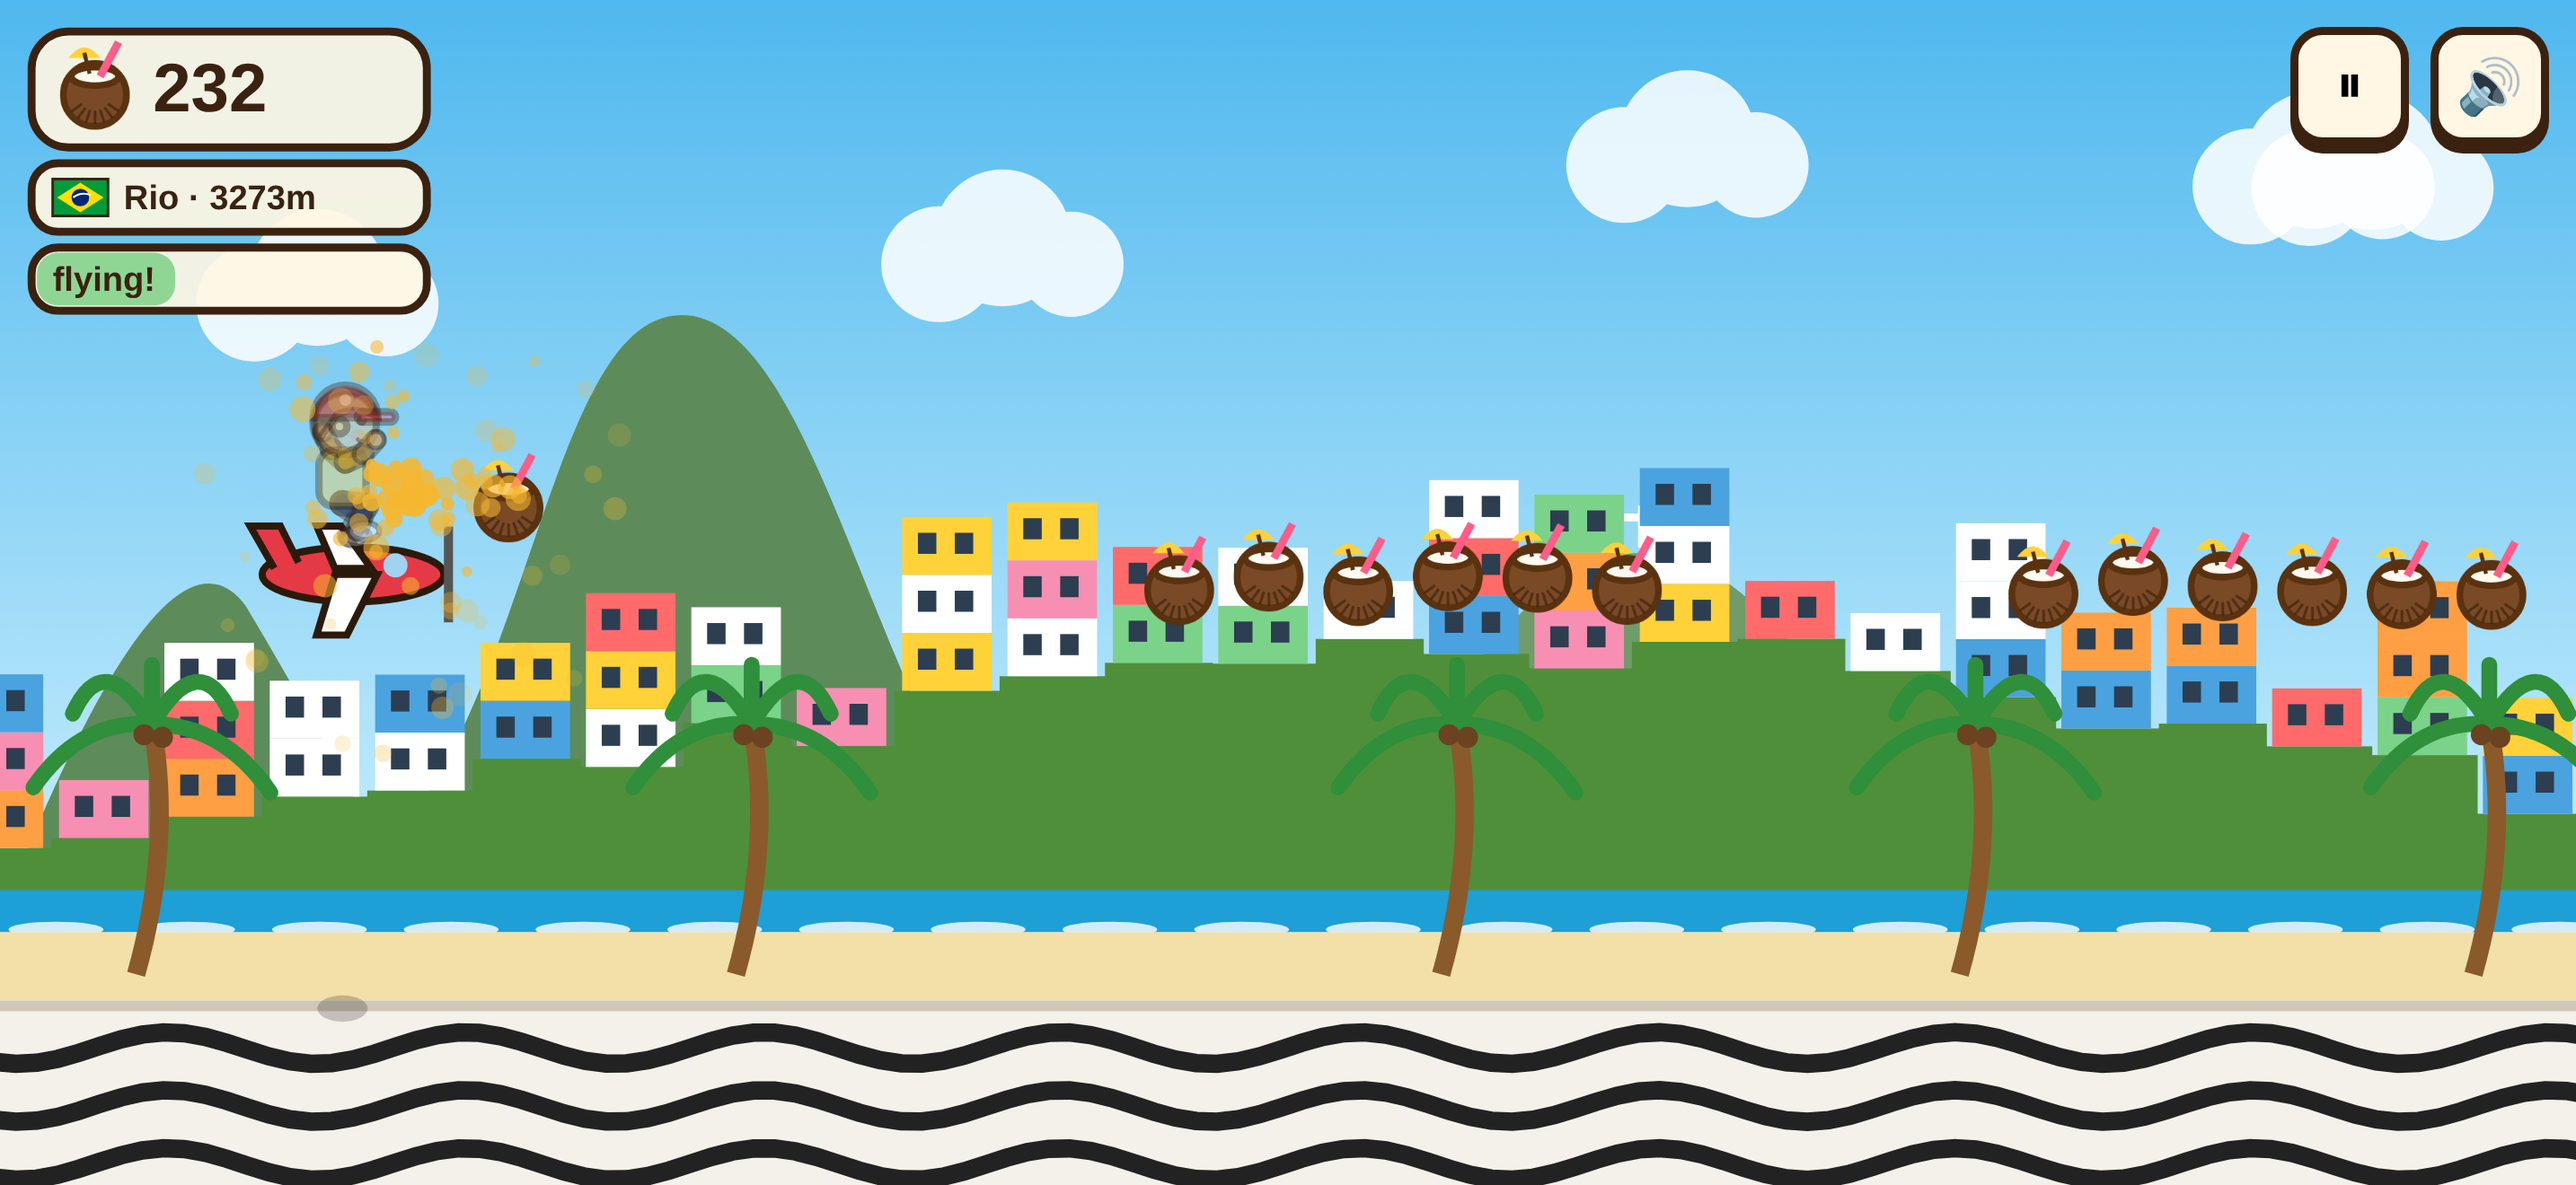
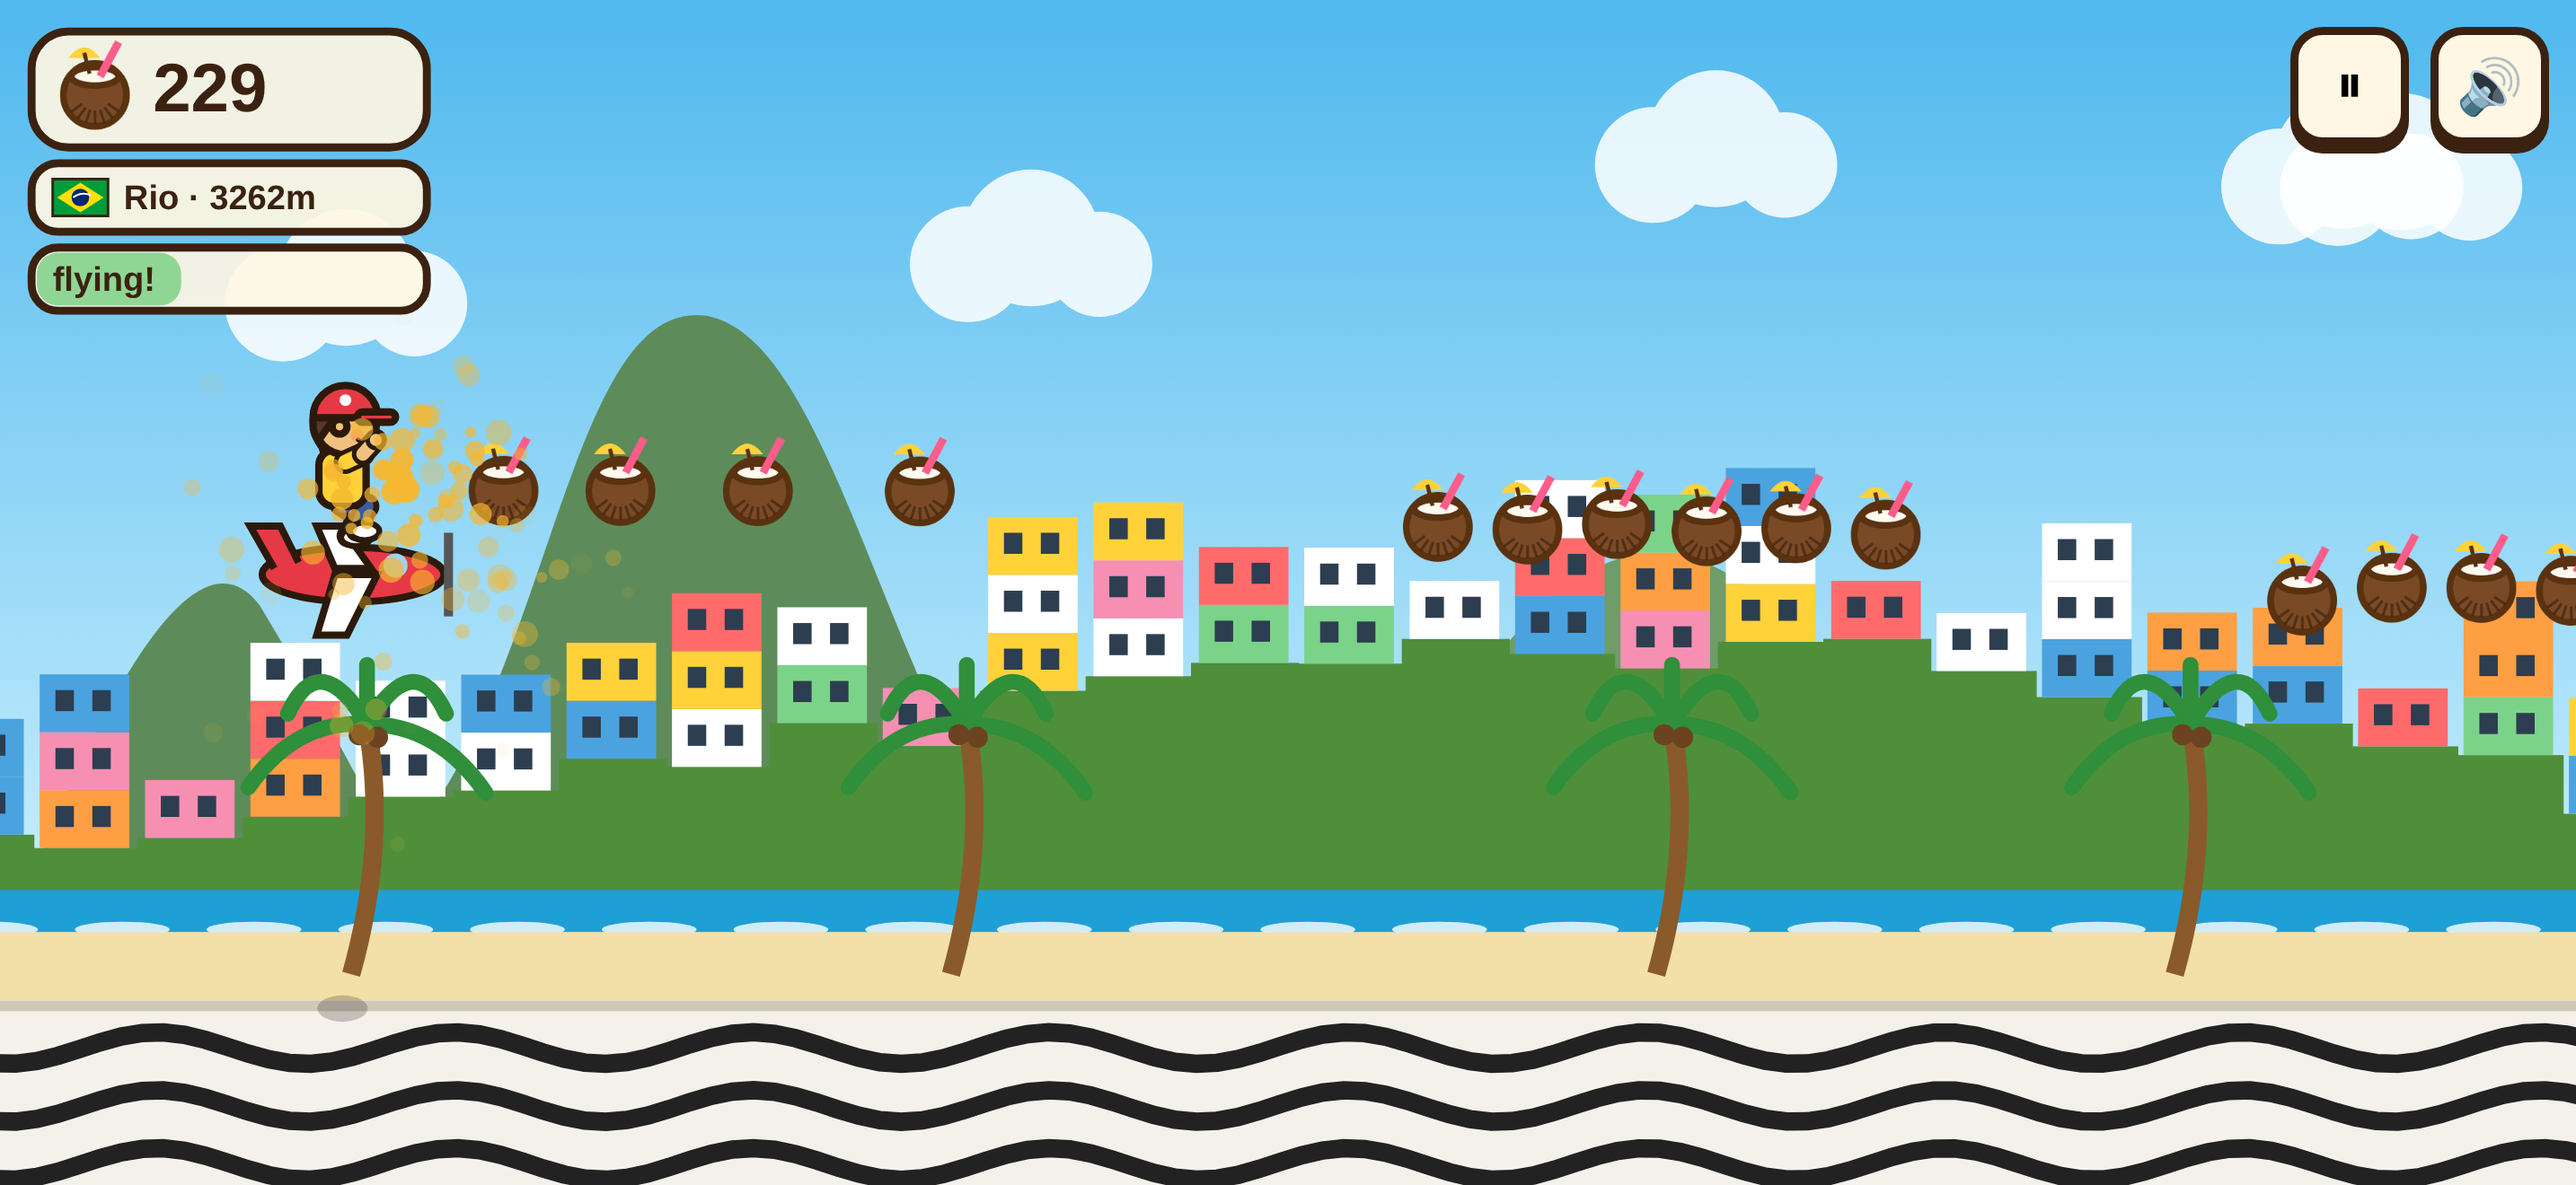
Make obstacles 30% bigger
Ground obstacles, street people, birds and hanging signs are drawn and
collide at 1.3x size. Drawing is scaled from the obstacle's base, so
hanging signs and birds grow upwards and remain duckable.

Claude-Session: https://claude.ai/code/session_01Q5ZPpkSridJ3JK6RxNKRbs

diff --git a/index.html b/index.html
@@ -772,7 +772,7 @@ function drawStreetPerson(c, o) {
   const base = STREET_PEOPLE[o.type];
   const s = Object.assign({ skin: o.type === 'mime' ? '#f7f7f7' : SKINS[(o.seed || 0) % SKINS.length] }, base);
   const tt = time + (o.seed || 0) * 0.37;
-  c.save(); c.translate(o.x + o.w / 2, GROUND); c.scale(-1, 1); c.lineJoin = 'round';
+  c.save(); c.translate(o.x + o.w / 2, o.y + o.h); c.scale(-1, 1); c.lineJoin = 'round';
   if (o.type === 'fietser') {
     const wy = -12;
     c.strokeStyle = INK; c.lineWidth = 3.5;
@@ -1287,8 +1287,14 @@ function addArc(x, n, height) {
   }
 }
 const MOVING = { fietser: 70, skater: 90 }; // deze mensen komen op je af
-function groundObs(type, x) { const [w, h] = OBS_SIZE[type]; return { x, y: GROUND - h, w, h, type, city: cityId(G.worldIdx), move: MOVING[type] || 0, seed: Math.floor(Math.random() * 1000) }; }
-function hangObs(city, x) { return { x, y: 0, w: city.hang.w, h: GROUND - 36, type: city.hang.kind, text: city.hang.text, style: city.hang.style }; }
+const OBS_SCALE = 1.3; // alle obstakels 30% groter (tekening en hitbox)
+function groundObs(type, x) {
+  const [bw, bh] = OBS_SIZE[type], w = bw * OBS_SCALE, h = bh * OBS_SCALE;
+  return { x, y: GROUND - h, w, h, bw, bh, s: OBS_SCALE, type, city: cityId(G.worldIdx), move: MOVING[type] || 0, seed: Math.floor(Math.random() * 1000) };
+}
+// hangend: groeit naar boven, de onderkant blijft op dezelfde hoogte zodat je er onder kunt bukken
+function hangObs(city, x) { const h = GROUND - 36; return { x, y: 0, w: city.hang.w * OBS_SCALE, h, bw: city.hang.w, bh: h / OBS_SCALE, s: OBS_SCALE, type: city.hang.kind, text: city.hang.text, style: city.hang.style }; }
+function birdObs(city, x) { const w = 46 * OBS_SCALE, h = 24 * OBS_SCALE; return { x, y: GROUND - 40 - h, w, h, bw: 46, bh: 24, s: OBS_SCALE, type: 'vogel', t: Math.random() * 5, col: city.bird }; }
 
 function spawn() {
   const x = VW + 60, city = CITIES[G.worldIdx];
@@ -1313,13 +1319,13 @@ function spawn() {
   const level = Math.min(1, G.dist / 2500);
   let o;
   if (Math.random() < 0.25 + level * 0.15) {
-    o = Math.random() < 0.5 ? { x, y: GROUND - 64, w: 46, h: 24, type: 'vogel', t: Math.random() * 5, col: city.bird } : hangObs(city, x);
+    o = Math.random() < 0.5 ? birdObs(city, x) : hangObs(city, x);
     G.obs.push(o);
     addRow(x - 10, GROUND - 14, 3, 30);
   } else {
     o = groundObs(city.obs[Math.floor(Math.random() * city.obs.length)], x);
     G.obs.push(o);
-    if (level > 0.35 && Math.random() < 0.25 && o.w < 40) {
+    if (level > 0.35 && Math.random() < 0.25 && o.bw < 40) {
       const low = [...city.obs].sort((a, b) => OBS_SIZE[a][1] - OBS_SIZE[b][1])[0]; // dubbel: altijd het laagste obstakel
       G.obs.push(groundObs(low, x + o.w + 14));
     }
@@ -1607,10 +1613,15 @@ function drawSnack(c, x, y, r, kind, cityIdx) {
 }
 
 function drawObstacle(c, o) {
+  if (o.s && o.s !== 1) { // geschaald tekenen, met de onderkant als ankerpunt
+    c.save(); c.translate(o.x, o.y + o.h); c.scale(o.s, o.s); c.translate(0, -o.bh);
+    drawObstacle(c, Object.assign({}, o, { x: 0, y: 0, w: o.bw, h: o.bh, s: 1 }));
+    c.restore(); return;
+  }
   c.save(); c.lineWidth = 3; c.strokeStyle = '#2b1a0c'; c.lineJoin = 'round';
   const { x, y, w, h } = o;
   if (!['vogel', 'bord', 'lantaarn'].includes(o.type)) { // schaduw op de grond
-    c.fillStyle = 'rgba(0,0,0,.22)'; c.beginPath(); c.ellipse(x + w / 2, GROUND + 3, w / 2 + 6, 5, 0, 0, 7); c.fill();
+    c.fillStyle = 'rgba(0,0,0,.22)'; c.beginPath(); c.ellipse(x + w / 2, y + h + 3, w / 2 + 6, 5, 0, 0, 7); c.fill();
   }
   if (STREET_PEOPLE[o.type]) { drawStreetPerson(c, o); c.restore(); return; }
   switch (o.type) {

diff --git a/sw.js b/sw.js
@@ -1,5 +1,5 @@
 // Offline-cache voor Snack Trip! Verhoog VERSION na elke wijziging aan het spel.
-const VERSION = 'snacktrip-v3';
+const VERSION = 'snacktrip-v4';
 const FILES = ['./', 'index.html', 'privacy.html', 'manifest.webmanifest', 'icons/icon-180.png', 'icons/icon-192.png', 'icons/icon-512.png'];
 
 self.addEventListener('install', e => {
